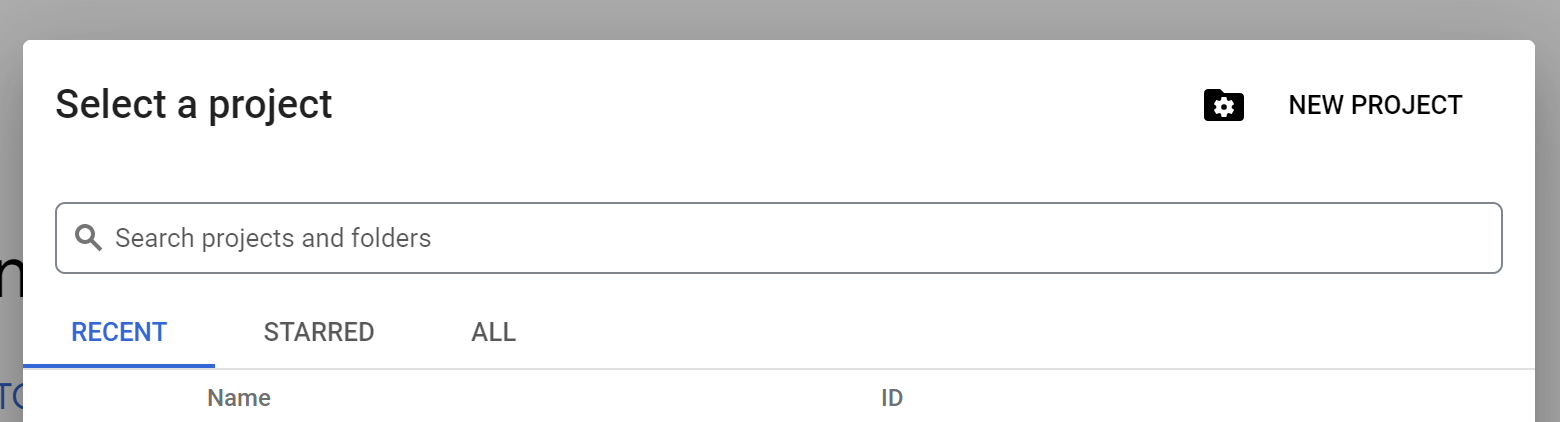
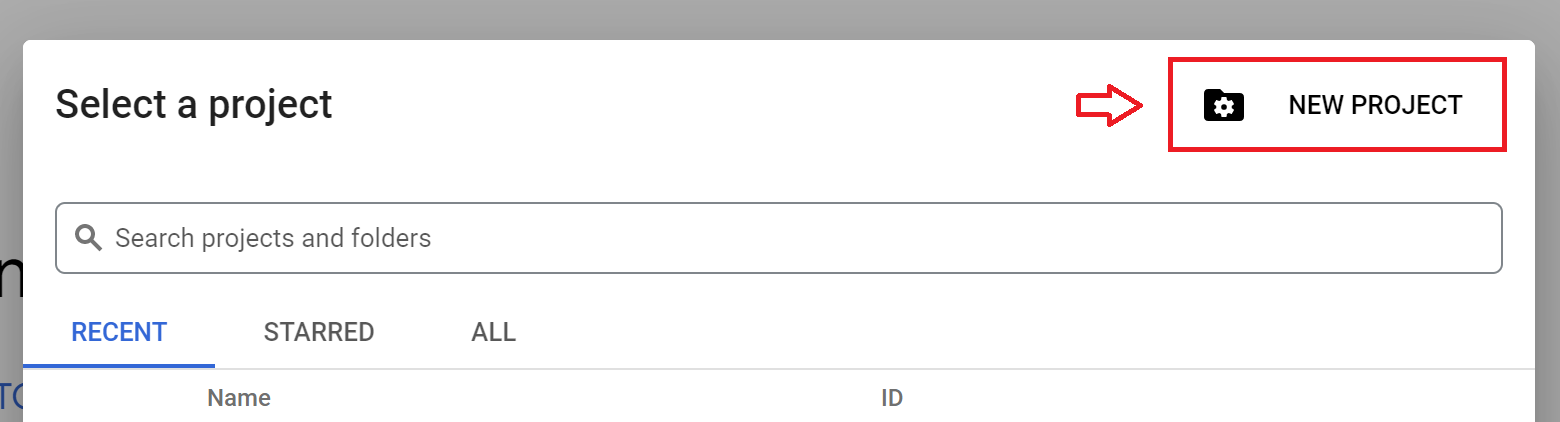
Add readme

Changed region(s): [[0.6769, 0.1232, 0.9846, 0.3697]]

diff --git a/readme.md b/readme.md
@@ -4,9 +4,9 @@ This project showcases the best practice on what I've been learning from Data En
 
 You must have known about Github. GitHub is where people build software. More than 100 million people use GitHub to discover, fork, and contribute to over 330 million projects. 
 
-It is very interesting that Github user activities are publicly available [here](https://www.gharchive.org/). The dataset are grouped on hourly basis and stored in a JSON format. Each user activity is labeled with event type, such as: `push`, `pull-request`, `issues`, `commit`, etc. There are >150K rows of activities recorded in each dataset. In average, the size of the daily data is around 1,4GB! Such a quite large amount of data. This dataset is updated daily.
+It is very interesting that Github user activities are publicly available [here](https://www.gharchive.org/). The dataset are grouped on hourly basis and stored in a JSON format. Each user activity is labeled with event type, such as: `push`, `pull-request`, `issues`, `commit`, etc. There are >150K rows of activities recorded in each dataset. In average, the size of the daily data is around 1,4GB and this dataset is updated daily.
 
-With this such a big dataset, I am going to implement some data engineering best practices and gain interesting metrics, such as:  
+In this project, I am going to implement some data engineering best practices and gain interesting metrics, such as:  
 - daily most issue created from repository
 - daily most forked repository
 - daily most active users (count by number of push)
@@ -81,13 +81,29 @@ events:
 ## Dashboard Preview
 
 ## Reproducability
-1. Open [google cloud console](https://console.cloud.google.com/) and create a new GCP project.
+**Pre-requisites**: I use [Makefile](./Makefile) to make ease the reproducability process. Please install `make` tool in the Ubuntu terminal with this command `sudo apt install make -y`.
 
-{{2 GAMBAR create GCP Project}}
 
-2. Change `project_id`, `region` and `zone` variables in (infra/gcp/terraform.tfvars)[link] as per your setting.
+1. Open [google cloud console](https://console.cloud.google.com/) and create a new GCP project by clicking `New Project` button.
 
-3. Install make tools
+![new-project](./images/gcp-create-project.png)
+
+You will be redirected to a new form, please provide the project information detail, copy the `project_id` and click `Create` button.
+
+![fill-detail-project-info](./images/gcp-fill-project-info.png)
+
+2. Let's create some resources (BigQuery, Cloud Engine and Cloud Storage and Service Account) on top of the newly created project using terraform. You should provide some information such as: `project_id`, `region` and `zone` in [infra/gcp/terraform.tfvars](./infra/gcp/terraform.tfvars) as per your GCP setting.
+
+3. Once you've updated the file, run this command to spin-up the infrastructure resource up.
+
+```
+make infra-init-vm:
+```
+
+If there is an error like this happens: 
+```
+```
+Please re-run the command again.
 
 4. Run this command to create new VM and generate service-account with terraform
 
